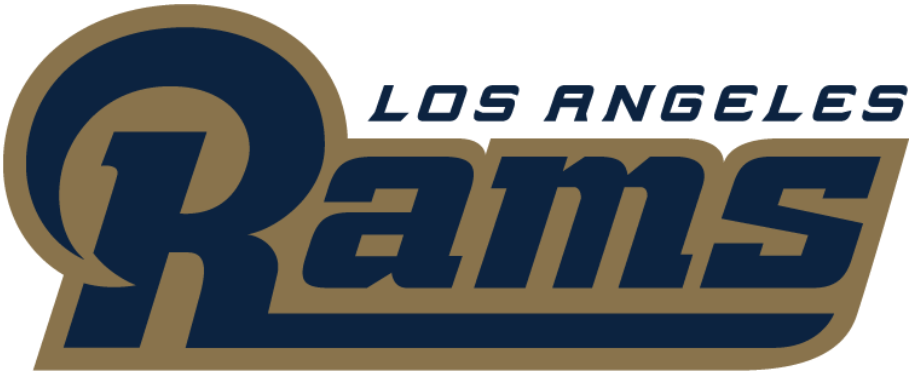
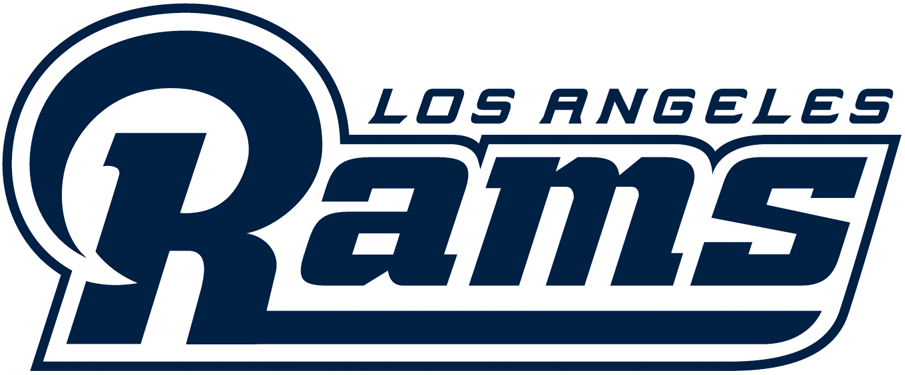
Adapt to 2017 Change for DET and LAR

diff --git a/nfl.css b/nfl.css
@@ -62,7 +62,7 @@
 .CLE_banner {background-image: url("banners/CLE.png");}
 .PIT_banner {background-image: url("banners/PIT.png");}
 .CHI_banner {background-image: url("banners/CHI.png");}
-.DET_banner {background-image: url("banners/DET.gif");}
+.DET_banner {background-image: url("banners/DET.png");}
 .GB_banner {background-image: url("banners/GB.gif");}
 .MIN_banner {background-image: url("banners/MIN.gif");}
 .HOU_banner {background-image: url("banners/HOU.gif");}
@@ -111,6 +111,6 @@
 .OAK_logo {background-image: url("logos/OAK.gif");}
 .LAC_logo {background-image: url("logos/LAC.png");}
 .ARI_logo {background-image: url("logos/ARI.gif");}
-.LAR_logo {background-image: url("logos/LAR.gif");}
+.LAR_logo {background-image: url("logos/LAR.png");}
 .SF_logo {background-image: url("logos/SF.gif");}
 .SEA_logo {background-image: url("logos/SEA.gif");}
